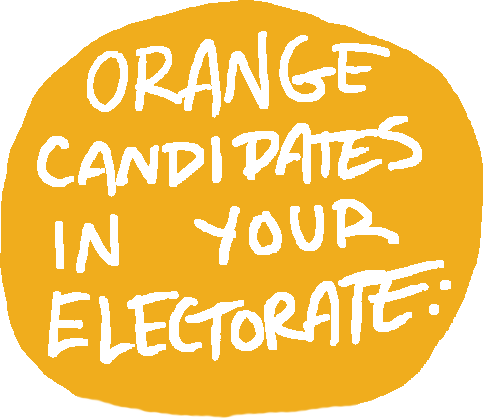
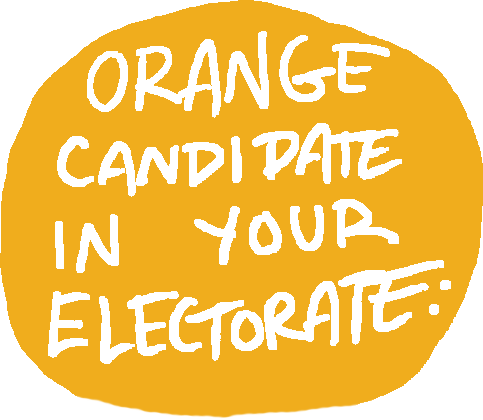
Update badges
“X candidate in your area” as opposed to “X candidateS in your area.”

Changed region(s): [[0.0621, 0.2786, 0.8696, 0.4643]]

diff --git a/wp-content/themes/vote1refugees/main.css b/wp-content/themes/vote1refugees/main.css
@@ -167,6 +167,7 @@ article .postcode_results hr {
 }
 article .postcode_results span {
   float: left;
+  display: block;
 }
 article .postcode_results .clearfix {
   margin-bottom: 1.8rem;
@@ -278,5 +279,8 @@ form p .required {
   }
   article p {
     line-height: 3rem;
+  }
+  form #postcode {
+    width: 100%;
   }
 }

diff --git a/wp-content/themes/vote1refugees/main.less b/wp-content/themes/vote1refugees/main.less
@@ -174,6 +174,7 @@ article {
 
 		span {
 			float: left;
+			display: block;
 		}
 
 		.clearfix {
@@ -308,6 +309,12 @@ form {
 	article {
 		p {
 			line-height: 3rem;
+		}
+	}
+
+	form {
+		#postcode {
+			width: 100%;
 		}
 	}
 }
